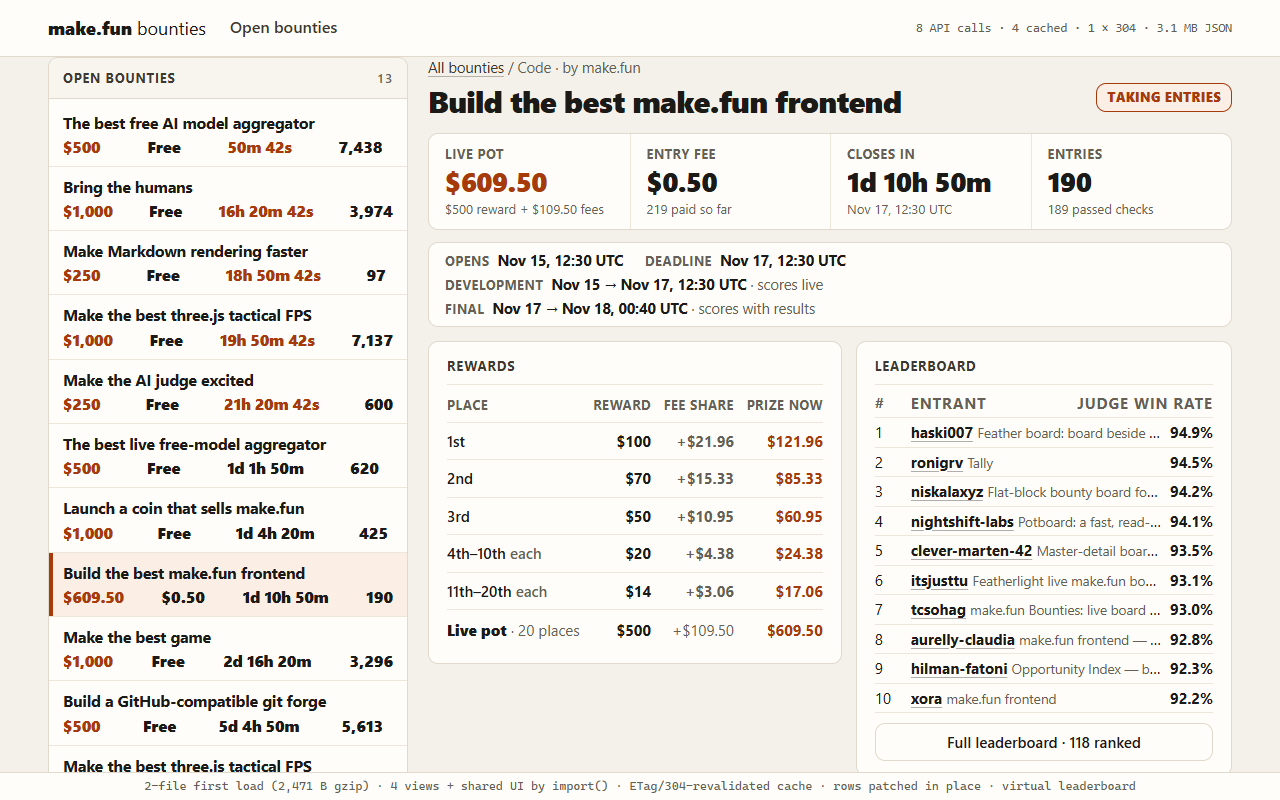
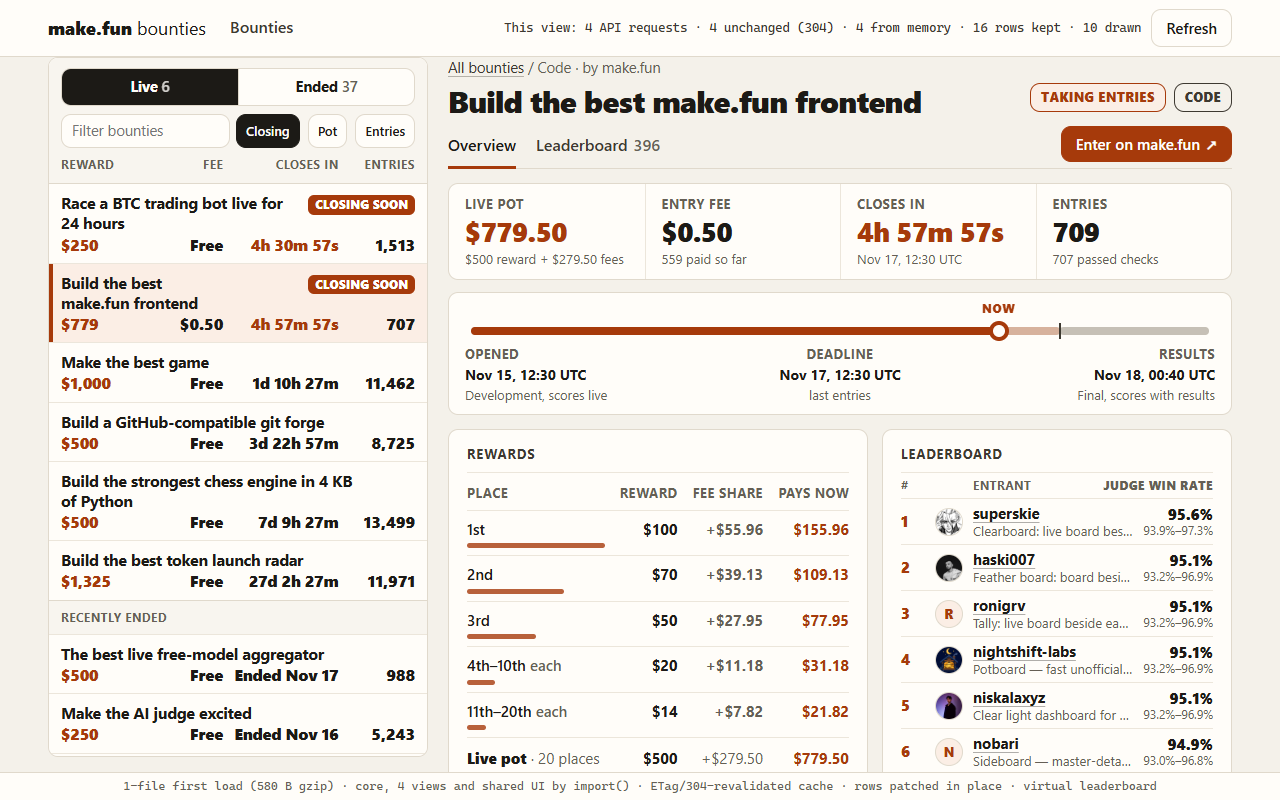
Re-shoot the 3 screenshots on live data; README for round 3
Cover: the split view with the Live / Ended panel beside the bounty's
timeline, reward bars and top entrants with avatars. Leaderboard: 8,720
entries as a virtual list with avatars. Profile at 412 px.

diff --git a/README.md b/README.md
@@ -14,9 +14,9 @@ framework, no build step) reading make.fun's public API (`https://make.fun/api`,
 
 | Hash | Surface | API |
 | --- | --- | --- |
-| `#/` (`?sort=pot&cat=Games`) | Bounty board: reward or live pot, entry fee, live countdown, entries and entries in the last hour; sort and category chips | `/api/competitions?status=open&activity=times` |
-| `#/bounty/<slug>` | Wide screens: the board list beside the bounty (split view). The bounty: live pot, entry fee, closes in, entries, dates and phases, status, rewards with fee shares, top 10, description and rules. Phones: one column | `/api/competitions/<slug>`, then its leaderboard |
-| `#/bounty/<slug>/leaderboard` | Full leaderboard, virtualised, with search and a live "rows on screen" line | `/api/competitions/<slug>/leaderboard?rows=first` |
+| `#/` (`?sort=pot&cat=Games`) | Bounty board: reward or live pot, entry fee, live countdown, entries and entries in the last hour; sort and category chips, type-to-filter, closing-soon badges | `/api/competitions?status=open&activity=times` |
+| `#/bounty/<slug>` | Wide screens: the board panel beside the bounty (split view) with Live / Ended tabs and counts, a filter box, sort chips, closing-soon badges and recently ended bounties. The bounty: status pills, an "Enter on make.fun" link (a plain link to make.fun's page), Overview / Leaderboard tabs, live pot, entry fee, closes in, entries, a dates timeline with a Now marker, rewards with base, fee share, pays now and bars, the top entrants with avatars, win rate and interval, description and rules. Phones: one column | `/api/competitions/<slug>`, its leaderboard, `/api/competitions?status=resolved` for the Ended tab |
+| `#/bounty/<slug>/leaderboard` | Full leaderboard, virtualised, with avatars, score intervals, search and a live "rows on screen" line | `/api/competitions/<slug>/leaderboard?rows=first` |
 | `#/u/<handle>` | Public profile: record, entries with place/prize/score, payouts | `/api/profiles/<handle>` |
 
 "Taking entries" is decided by the opening time and the deadline, not by the API's `status`.
@@ -34,21 +34,24 @@ The tools need Node 22+ and Chrome (`CHROME_PATH` overrides the Windows default 
 
 ## How it stays fast
 
-- **2-file first load, about 2.5 KB gzipped**: `index.html` (with an inline shell style) and `core.js` (the cache,
-  the status counters and the router). Everything else arrives by literal `import()`: one module per surface plus
-  `ui.js`, which holds the shared helpers and the full stylesheet as a constructable sheet adopted on first use.
+- **1-file first load, 580 B gzipped**: `index.html` alone, with a few bytes of inline style and one inline module
+  script whose only statement is a literal `import('./core.js')`. `core.js` (the cache, the status counters and the
+  router) and everything else arrive by literal `import()`: one module per surface plus `ui.js`, which holds the shared
+  helpers and the full stylesheet as a constructable sheet adopted on first use.
 - **One JSON cache** (`cachedJSON`, `revalidateByETag` in `core.js`): answers are reused from memory for 20 s with no
-  request, then served stale at once while revalidated in the background, de-duplicated in flight. Fetches use
+  request, then served stale at once while revalidated in the background, de-duplicated in flight; a `503` saying a board is still being built is retried after its `retry_after`. Fetches use
   `cache: 'no-cache'`, so the browser revalidates with its ETag and make.fun answers `304` within the minute (its 304
   has no CORS header, so a hand-written `If-None-Match` would fail). An unchanged ETag skips reading and parsing.
 - **Updated in place**: watched answers revalidate once a minute while the tab is visible and patch changed text
   nodes; sorting, filtering and the split view's selection move existing rows with a keyed patch; one timer drives
   every countdown and rewrites only its text node. The route's module and data load together; hover or focus on a
   link prefetches both.
-- **Virtual leaderboard**: 6,000+ rows scroll through a pool of about 30 row elements; one leaderboard download serves
+- **Virtual leaderboard**: 8,000+ rows scroll through a pool of about 30 row elements; one leaderboard download serves
   both the bounty's top 10 and the full list.
-- The header's status line counts real API calls, memory hits, 304s and JSON received; the footer states the first
-  load measured from `main.ts`'s dossier (the UI test checks it against the files' gzip-9 size).
+- The header's status line counts the current view only, all real: API requests sent, how many came back `304`
+  unchanged, answers served from memory, rows kept (patched in place) and rows drawn (created). **Refresh**
+  revalidates every answer the view used by ETag; changed ones patch the view in place. The footer states the first
+  load measured from `main.ts`'s dossier (the UI test checks it against index.html's gzip-9 size).
 
 Accessible by default: skip link, visible focus rings, real links and buttons, 44 px tap targets on phones,
 `prefers-reduced-motion` and `prefers-color-scheme: dark` respected, one column at 390 px with no sideways scroll.
